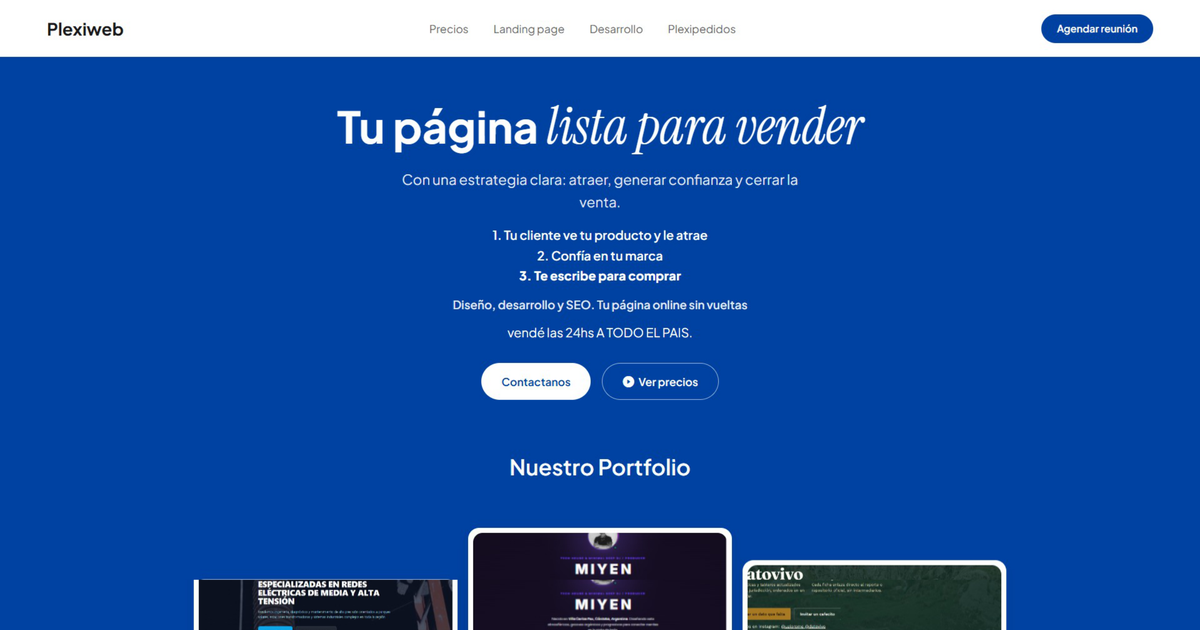
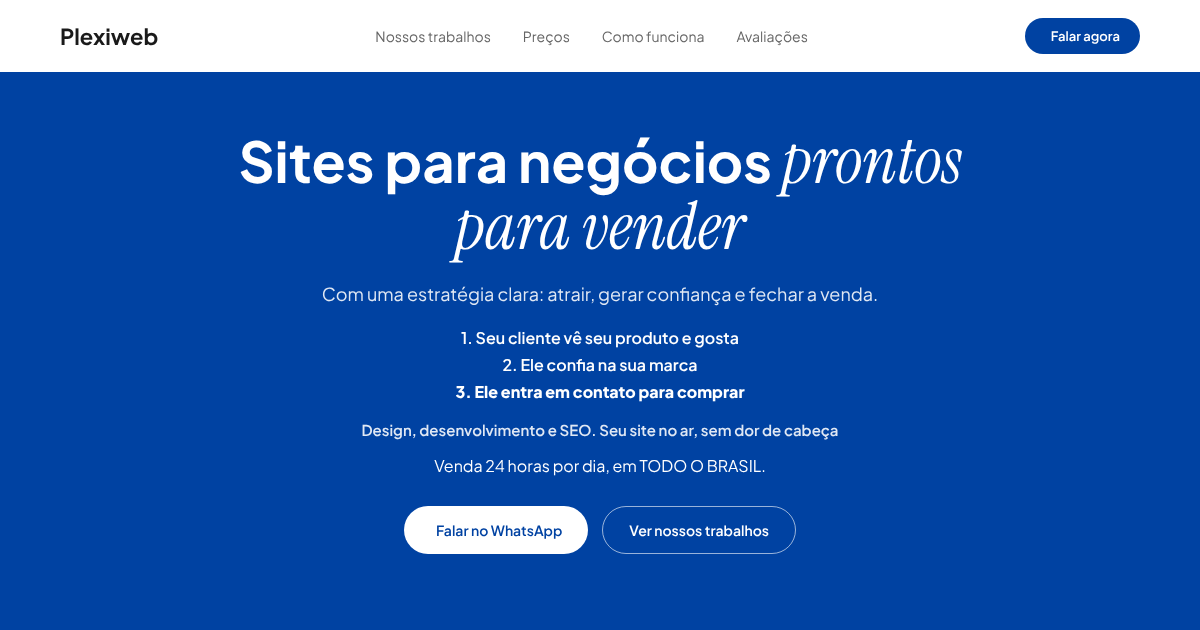
Quitar restos de Plexipedidos (menu y CSS) e imagen para compartir en portugues

diff --git a/css/style.css b/css/style.css
@@ -574,62 +574,6 @@ section[id] { scroll-margin-top: 80px; }
 .author-name { font-size: 13px; font-weight: 600; }
 .author-role { font-size: 13px; color: var(--ink-faint); }
 
-/* ---------- Plexipedidos ---------- */
-.plexipedidos {
-  padding: 70px 60px;
-  background: var(--bg-alt);
-  display: flex;
-  justify-content: center;
-}
-
-.plexipedidos-inner {
-  display: flex;
-  align-items: center;
-  gap: 48px;
-  max-width: var(--max-width);
-}
-
-.plexipedidos-info { flex: 1; min-width: 280px; }
-
-.plexipedidos-subtitle {
-  font-size: 17px;
-  font-weight: 600;
-  color: var(--accent);
-  margin: -12px 0 14px;
-}
-
-.plexipedidos-desc {
-  font-size: 15px;
-  color: var(--ink-soft);
-  line-height: 1.6;
-  margin: 0;
-}
-
-.plexipedidos-actions {
-  display: flex;
-  flex-wrap: wrap;
-  gap: 14px;
-  margin-top: 28px;
-}
-
-.plexipedidos-demo {
-  flex: 1;
-  min-width: 280px;
-  max-width: 360px;
-  aspect-ratio: 9 / 16;
-  border-radius: 20px;
-  overflow: hidden;
-  box-shadow: 0 14px 34px rgba(0, 0, 0, 0.12);
-  border: 1px solid var(--border);
-  background: #fff;
-}
-
-.plexipedidos-demo iframe {
-  width: 100%;
-  height: 100%;
-  border: none;
-}
-
 /* ---------- Footer ---------- */
 .site-footer {
   padding: 40px 60px;
@@ -693,10 +637,7 @@ section[id] { scroll-margin-top: 80px; }
   .hero { padding: 40px 24px 36px; }
   .hero-title { font-size: 36px; }
 
-  .portfolio, .proceso, .pricing, .testimonials, .plexipedidos { padding-left: 24px; padding-right: 24px; }
-
-  .plexipedidos-inner { flex-direction: column; }
-  .plexipedidos-demo { max-width: 320px; }
+  .portfolio, .proceso, .pricing, .testimonials { padding-left: 24px; padding-right: 24px; }
 
   /* Las 3 cards apiladas (antes eran un carrusel horizontal que ocultaba la oferta). */
   .pricing-grid { flex-direction: column; align-items: center; }

diff --git a/index.html b/index.html
@@ -92,7 +92,6 @@ height="0" width="0" style="display:none;visibility:hidden"></iframe></noscript>
       <a href="#pricing">Preços</a>
       <a href="#portfolio">Landing page</a>
       <a href="#proceso">Desenvolvimento</a>
-      <a href="#plexipedidos">Plexipedidos</a>
     </nav>
 
     <a href="https://wa.me/554891948233?text=Ol%C3%A1%2C%20quero%20agendar%20uma%20reuni%C3%A3o" class="btn btn-primary btn-header" data-cta="header">Agendar reunião</a>
